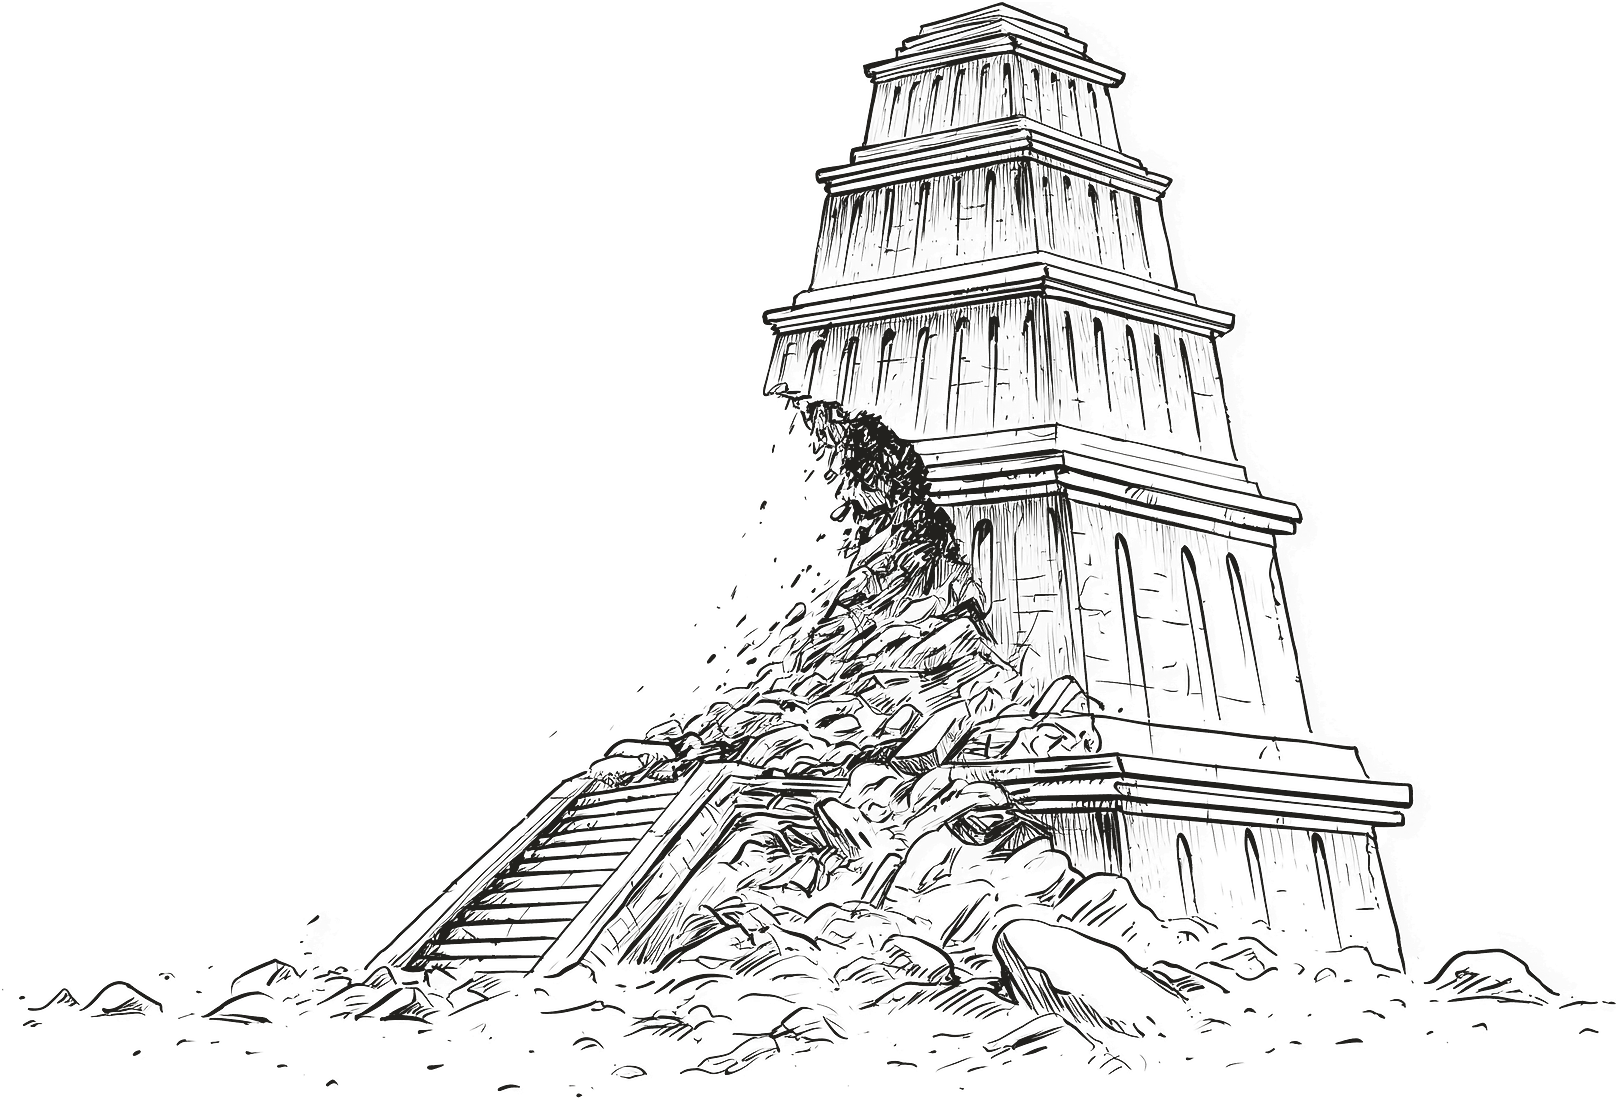
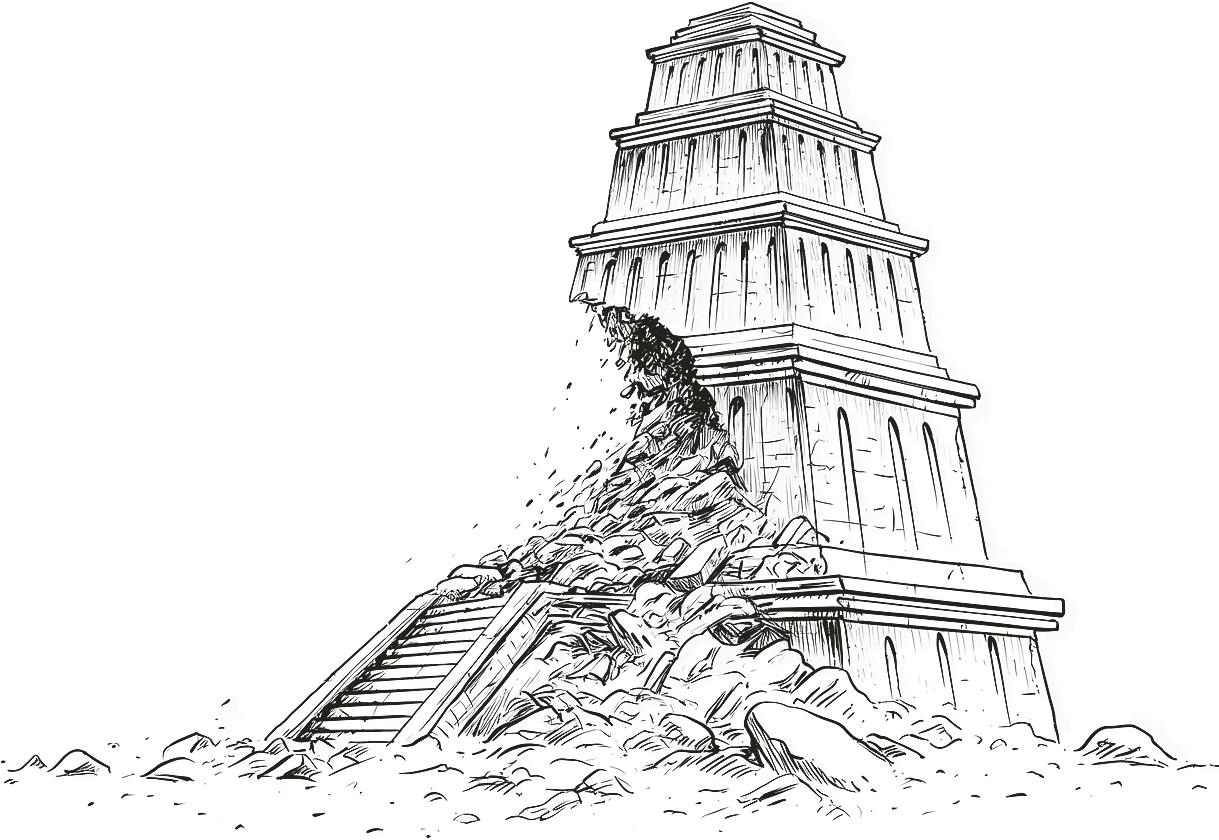
Ôter le défilement fantôme du Polyglotte, et donner de l'air aux trois gravures
LE DÉFILEMENT. La page portait « minHeight: 100vh » à DEUX endroits, alors
que le gabarit décale déjà le contenu de HAUTEUR_NAVBAR par #cs-corps :
elle mesurait donc 3,5rem de trop et défilait toujours d'exactement la
hauteur de la barre, dès l'ouverture et sans rien à montrer. La charte
consigne ce défaut pour le <main> d'une page ; il en restait deux ici.
Les deux blocs passent à « calc(100vh - 3.5rem) ».

L'AIR. La gravure remplissait 520 px d'un bloc qui en mesure 568, légende
comprise : trois pixels et demi de jeu de part et d'autre, ce qui la
collait sous la barre alors même qu'elle était centrée. Le plafond de
hauteur passe de 9rem à 15rem de réserve, soit 424 px : le groupe a
désormais 52 px au-dessus et au-dessous.

L'ÉGALITÉ, du même coup. Les trois grandes rendent maintenant EXACTEMENT
la même hauteur — 424 px — la hauteur bornant chacune des trois, là où
le désert restait à 434 contre 520 parce que sa colonne le bornait en
largeur. Leurs largeurs suivent leurs proportions : 615, 878 et 728.

La tour est refaite à sa nouvelle taille d'affichage : 1 219 px pour 615
affichés, rapport 1,98. Elle passe de 457 à 288 Ko.

Changed region(s): [[0.0, 0.0, 0.9664, 0.9905]]

diff --git a/app/polyglotte/page.tsx b/app/polyglotte/page.tsx
@@ -983,7 +983,7 @@ export default function PolyglottePage() {
   const SOMMET_CORPS = `calc(${HAUTEUR_NAVBAR} + ${HAUT_NAV + HAUT_TITRE + HAUT_ENTETE}px)`;
 
   return (
-    <div style={{ background: FOND, minHeight: "100vh" }}>
+    <div style={{ background: FOND, minHeight: "calc(100vh - 3.5rem)" }}>
       {/* La comparaison en colonnes exige une largeur d'écran : indisponible sur téléphone. */}
       <style>{`
         .poly-outil { display: block; }
@@ -1131,7 +1131,7 @@ export default function PolyglottePage() {
       {/* Le MÊME volet que la page Bible — pas un cousin qui lui ressemble. Un seul composant
           pour les deux pages, donc une seule navigation à maintenir et à apprendre. */}
       <div className="poly-outil">
-        <div style={{ display: "flex", alignItems: "flex-start", minHeight: "100vh" }}>
+        <div style={{ display: "flex", alignItems: "flex-start", minHeight: "calc(100vh - 3.5rem)" }}>
         {/* `top: 0` collait le volet au bord du viewport, c'est-à-dire DERRIÈRE la
             navbar fixe : sa barre de recherche disparaissait sous elle dès qu'on
             descendait. Le volet se cale donc sous la navbar, et n'occupe que la
@@ -1249,7 +1249,7 @@ export default function PolyglottePage() {
                   dimensions sont automatiques et bornées, le navigateur applique les maxima l'un
                   après l'autre en tenant le rapport (CSS 2.1, § 10.4). */}
               <img className="cs-ornement" src="/ornements/tour-babel-ruinee.png" alt="" aria-hidden="true"
-                style={{ maxWidth: "min(68rem, 96%)", maxHeight: "calc(100dvh - 3.5rem - 9rem)", opacity: 0.72, marginBottom: "16px" }} />
+                style={{ maxWidth: "min(68rem, 96%)", maxHeight: "calc(100dvh - 3.5rem - 15rem)", opacity: 0.72, marginBottom: "16px" }} />
               <p style={{ fontFamily: "var(--font-source-serif), Georgia, serif", fontSize: '0.9375rem', fontStyle: "italic", color: "var(--cs-texte-doux)", letterSpacing: "0.02em", margin: 0 }}>Ouvrez un livre</p>
             </div>
           </div>

diff --git a/app/recherche/RechercheClient.tsx b/app/recherche/RechercheClient.tsx
@@ -1063,7 +1063,7 @@ export default function RechercheClient() {
                     automatiques, le navigateur applique les maxima l'un après l'autre en tenant
                     le rapport (CSS 2.1, § 10.4). */}
                 <img className="cs-ornement" src="/ornements/desert-fosse.png" alt="" aria-hidden="true"
-                  style={{ maxWidth:'min(68rem, 96%)', maxHeight:'calc(100dvh - 3.5rem - 9rem)', opacity:0.72, marginBottom:'16px' }} />
+                  style={{ maxWidth:'min(68rem, 96%)', maxHeight:'calc(100dvh - 3.5rem - 15rem)', opacity:0.72, marginBottom:'16px' }} />
                 <p style={{ fontFamily:"var(--font-source-serif), Georgia, serif", fontSize:'0.9375rem', fontStyle:'italic', color:'var(--cs-texte-doux)', letterSpacing:'0.02em', margin:0 }}>Lancez une recherche</p>
               </div>
             )}

diff --git a/app/components/TexteBible.tsx b/app/components/TexteBible.tsx
@@ -605,7 +605,7 @@ export default function TexteBible({
                   vaut pour les fenêtres BASSES : la planche est un panorama, et sa hauteur y
                   chasserait la légende sous le pli. */}
               <img className="cs-ornement" src="/ornements/cite-ruinee.png" alt="" aria-hidden="true"
-                style={{ maxWidth: 'min(68rem, 96%)', maxHeight: 'calc(100dvh - 3.5rem - 9rem)', opacity: 0.72 }} />
+                style={{ maxWidth: 'min(68rem, 96%)', maxHeight: 'calc(100dvh - 3.5rem - 15rem)', opacity: 0.72 }} />
               {/* DIX PIXELS, et plus aucune marge négative. Celle-ci corrigeait un vide qui
                   n'aurait jamais dû être dans le fichier : la planche traînait 312 lignes
                   transparentes sous les ruines, gardées par une douzaine de mouchetures à alpha 1.
